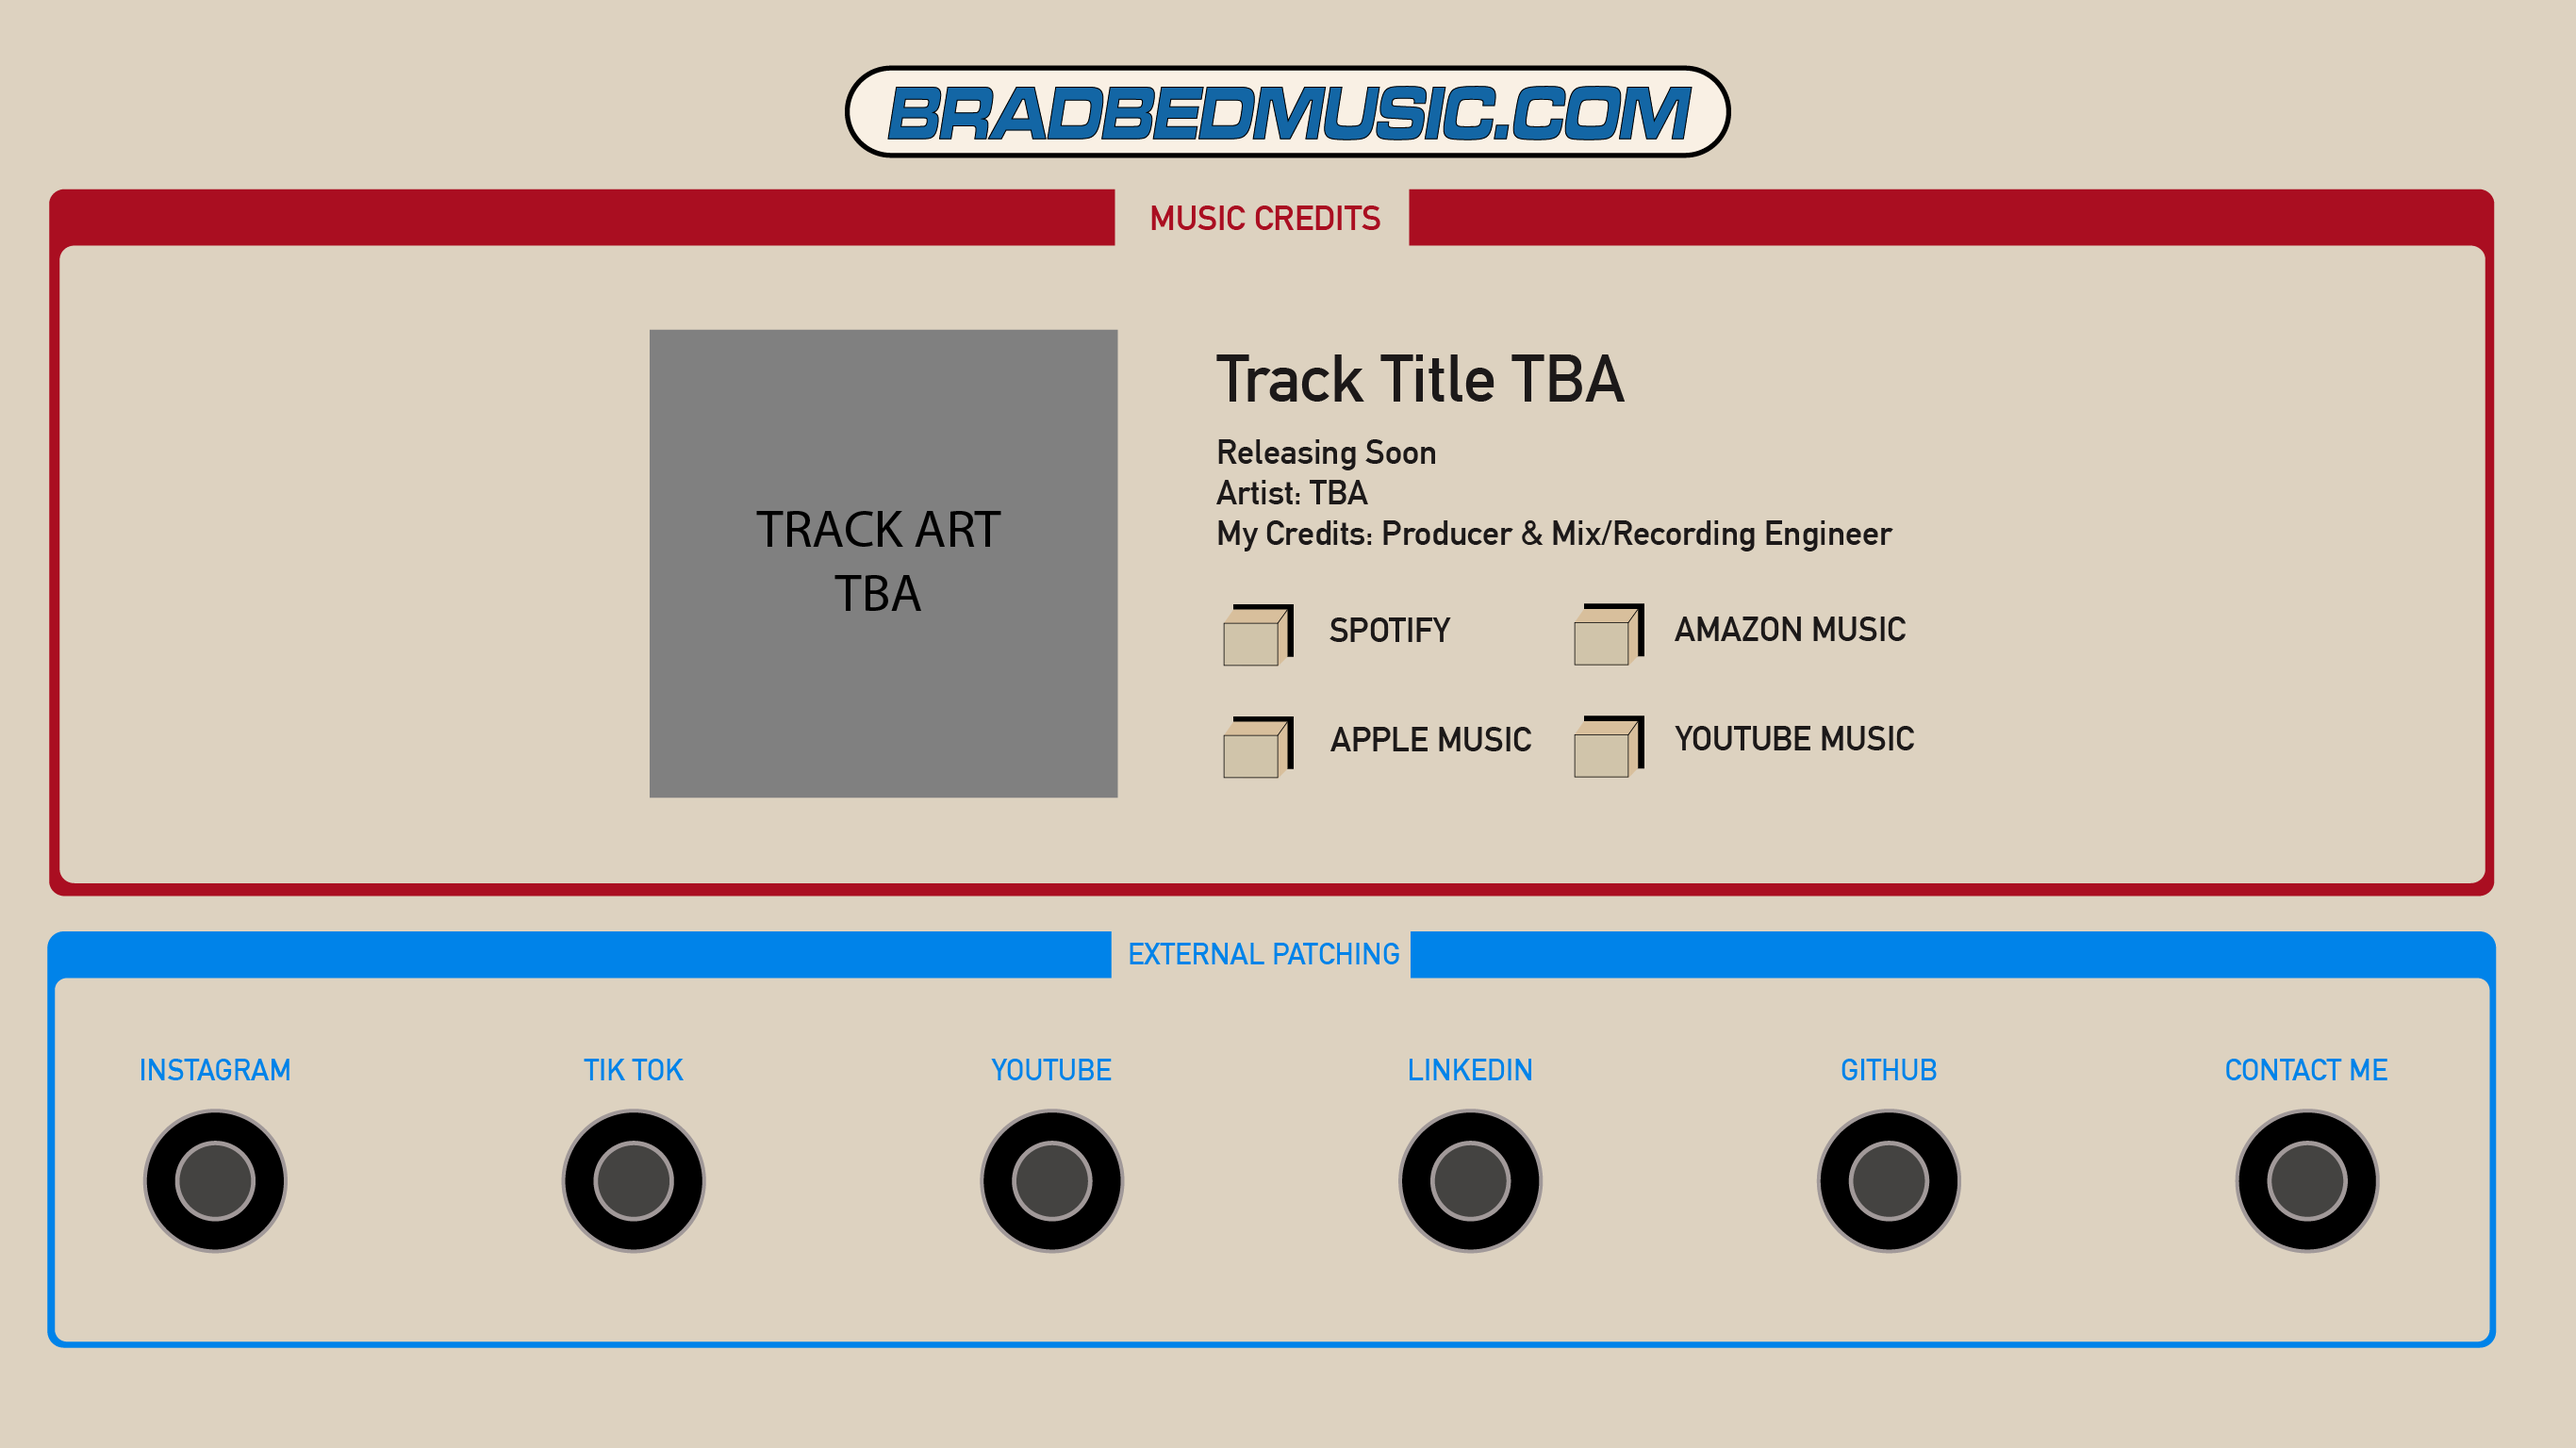
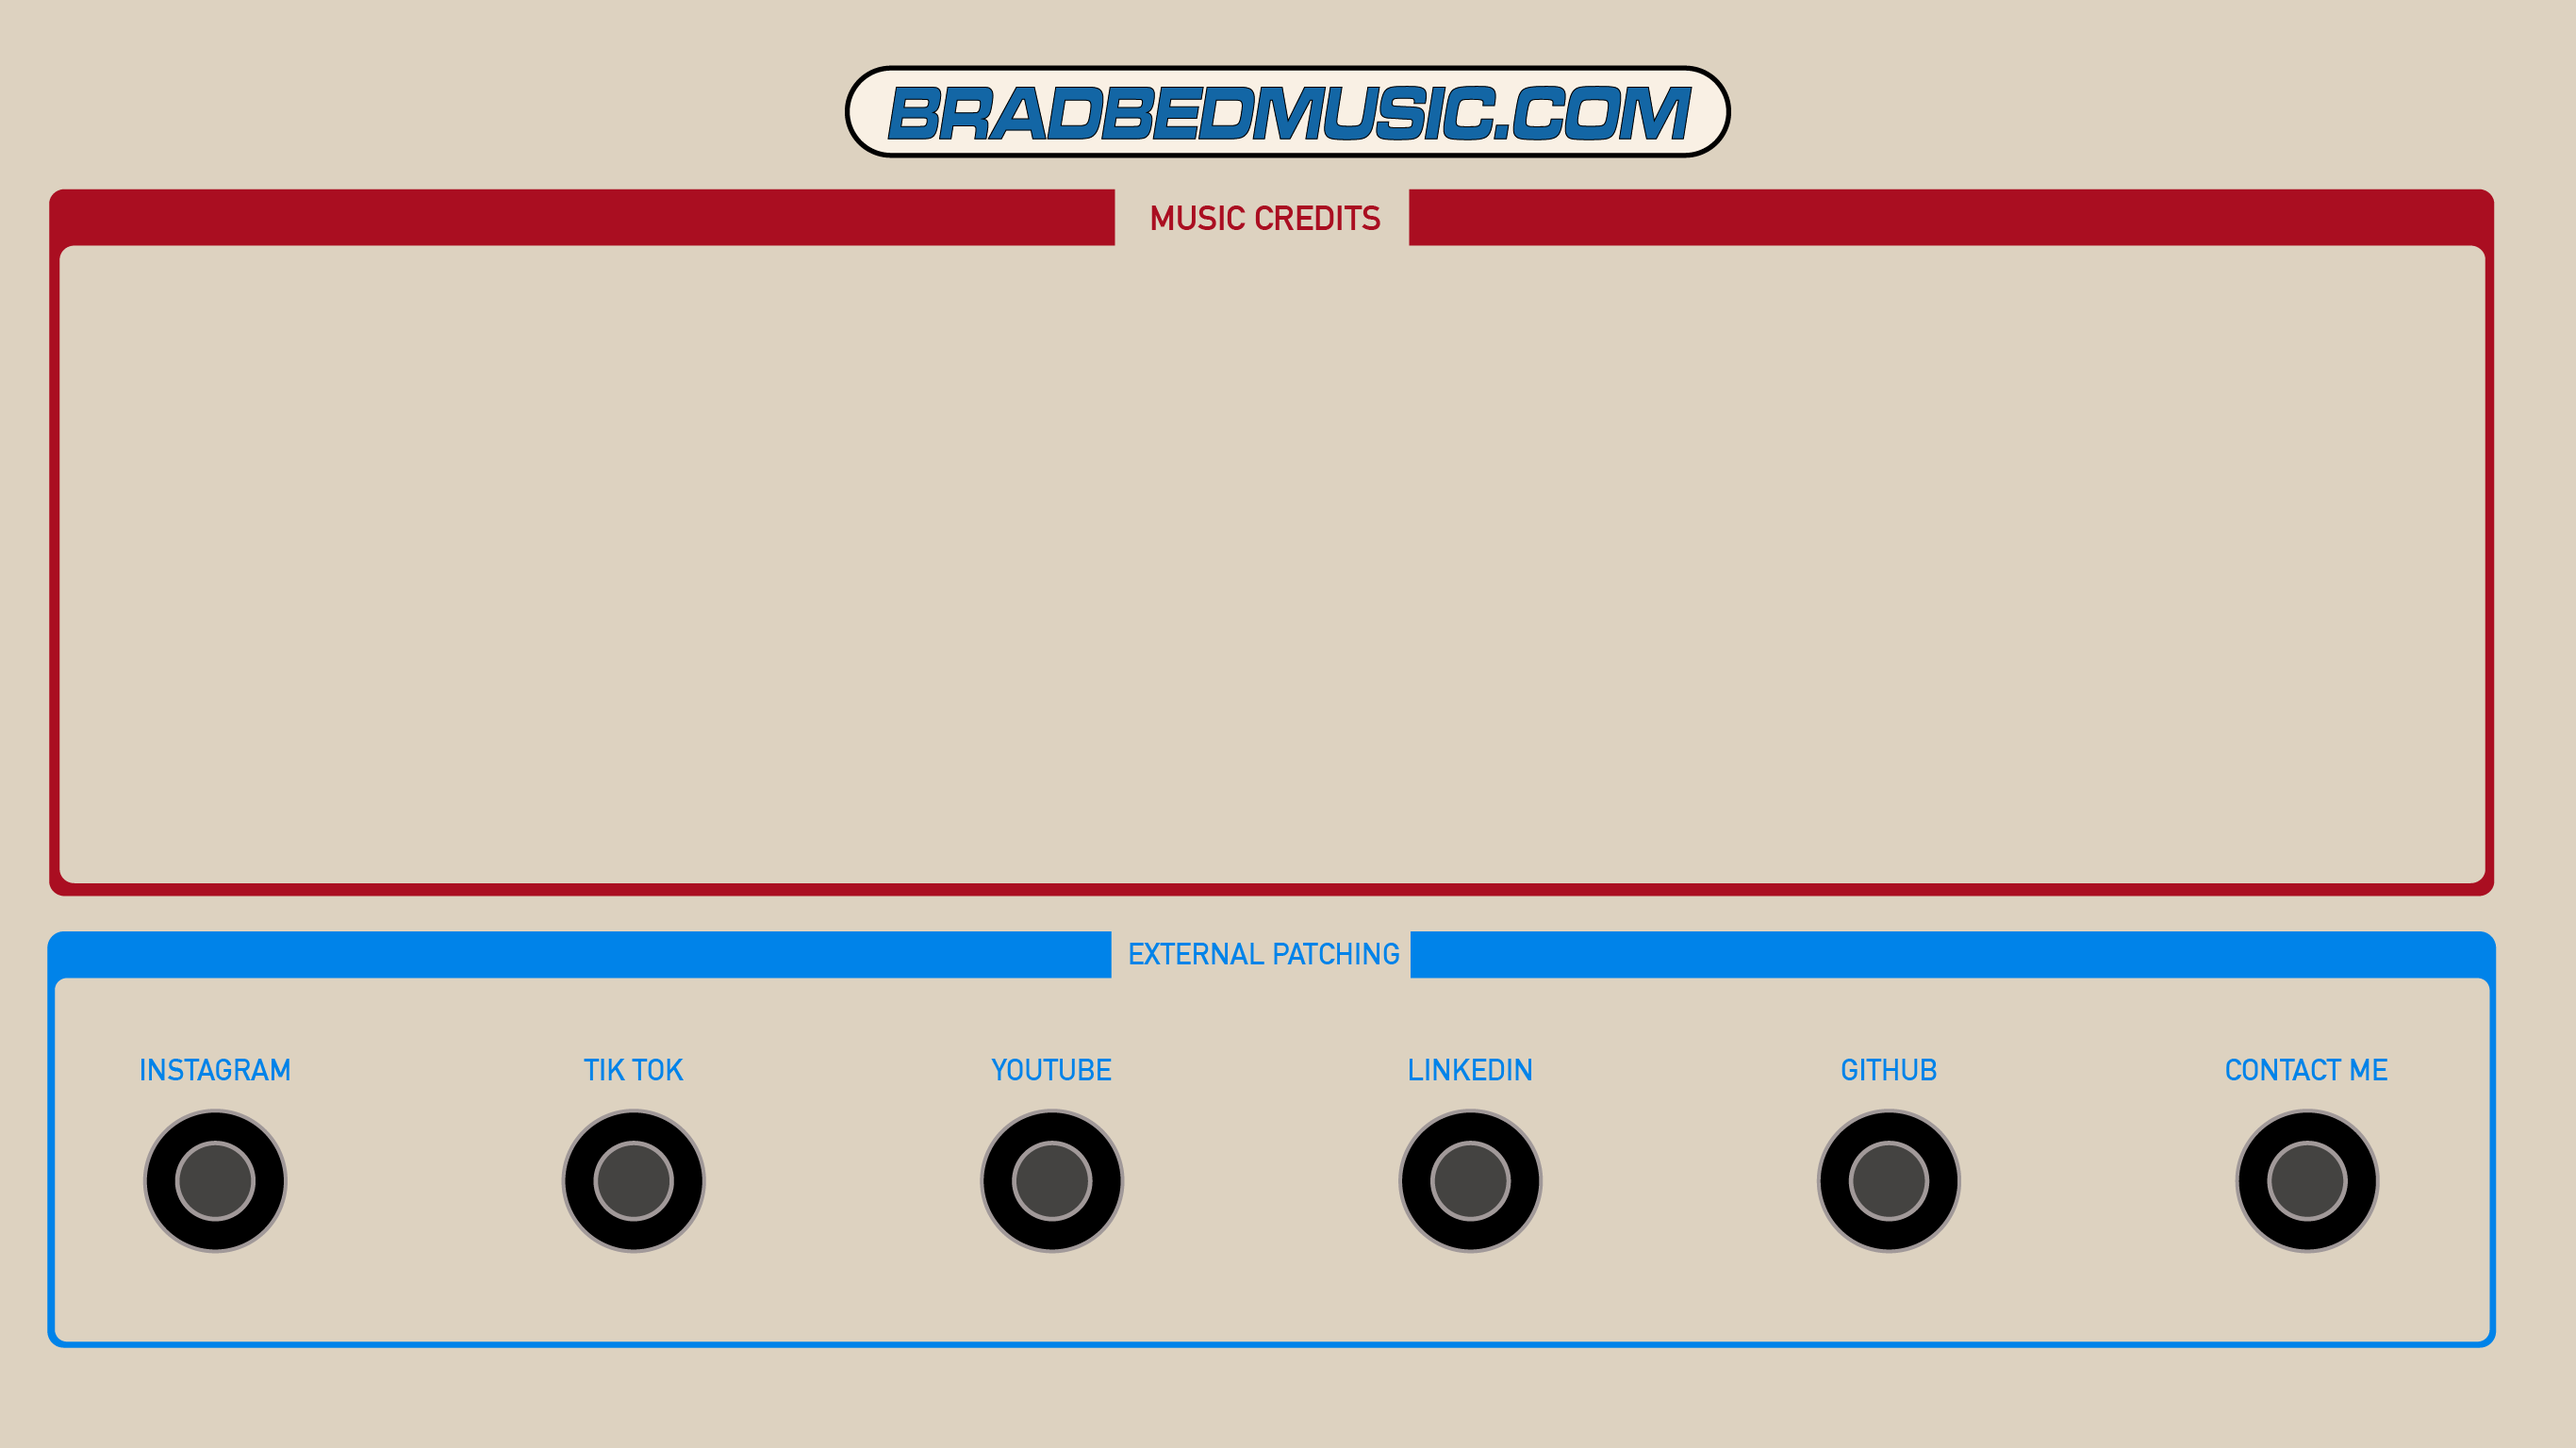
added new credits

diff --git a/credits/credits.js b/credits/credits.js
@@ -1,15 +1,50 @@
+let maxcaroindex = 1;
+let caro;
+let currcaroindex;
+let cnv;
+let link = [
+//sink
+['https://distrokid.com/hyperfollow/spencerkra/sink',
+'https://distrokid.com/hyperfollow/spencerkra/sink',
+'https://distrokid.com/hyperfollow/spencerkra/sink',
+'https://distrokid.com/hyperfollow/spencerkra/sink'],
+//clusterduck
+['https://distrokid.com/hyperfollow/bradbed/clusterduck',
+'https://distrokid.com/hyperfollow/bradbed/clusterduck',
+'https://distrokid.com/hyperfollow/bradbed/clusterduck',
+'https://distrokid.com/hyperfollow/bradbed/clusterduck']
+
+];
+
 function setup() {
   creditsbg = loadImage('assets/credits.png');
   clickbox = loadImage('assets/CLICKBOX.png');
   animButtonImg = loadImage('assets/clickedbutt.png');
-  let cnv = createCanvas(windowWidth, windowHeight);
+  sink = loadImage('assets/sinkpre.png');
+  cluster = loadImage('assets/clusterpre.png');
+  caro = [sink, cluster];
+  currcaroindex = maxcaroindex;
+  cnv = createCanvas(windowWidth, windowHeight);
 }
 
+let spotifyclick = false;
+let appleclick = false;
+let amazonclick = false;
+let youtubeclick = false;
 
 function draw() {
   background(221, 210, 192);
   ratioScale = windowWidth/1366;
   image(creditsbg, 0, 0, ratioScale*1366, ratioScale*768);
+  image(caro[currcaroindex], ratioScale*227, ratioScale*157, ratioScale*884, ratioScale*287);
+  buttonHandler();
+}
+
+function buttonHandler() {
+  onButton(spotifyclick, 685, 319);
+  onButton(appleclick, 685, 379);
+  onButton(amazonclick, 871, 319);
+  onButton(youtubeclick, 871, 379);
 }
 
 function windowResized() {
@@ -24,12 +59,40 @@ function mouseClicked() {
   externalPatching();
   if (buttonBounds(450, 36, 467, 82)) {
     window.open("https://www.bradbedmusic.com", "_self");
+  } else if (buttonBounds(1062, 251, 46, 86)) {
+    if (currcaroindex > 0) {
+      currcaroindex--;
+    }
+  } else if (buttonBounds(237, 251, 46, 86)) {
+    if (currcaroindex < maxcaroindex) {
+      currcaroindex++;
+    }
+  } else if (buttonBounds(649, 321, 37, 33)) {
+    spotifyclick = !spotifyclick;
+    window.open(link[currcaroindex][0]);
+  } else if (buttonBounds(835, 321, 37, 33)) {
+    amazonclick = !amazonclick;
+    window.open(link[currcaroindex][1]);
+  } else if (buttonBounds(835, 379, 37, 33)) {
+    youtubeclick = !youtubeclick;
+    window.open(link[currcaroindex][2]);
+  } else if (buttonBounds(649, 379, 37, 33)) {
+    appleclick = !appleclick;
+    window.open(link[currcaroindex][3]);
   }
 }
 
 function mousePressed() {
+  if (buttonBounds(649, 321, 37, 33)) {
+    spotifyclick = !spotifyclick;
+  } else if (buttonBounds(835, 321, 37, 33)) {
+    amazonclick = !amazonclick;
+  } else if (buttonBounds(835, 379, 37, 33)) {
+    youtubeclick = !youtubeclick;
+  } else if (buttonBounds(649, 379, 37, 33)) {
+    appleclick = !appleclick;
+  }
 }
-
 
 function externalPatching() { //external links on desktop buttons
   if ((ratioScale*600<= mouseY && mouseY <= ratioScale*650)) {
